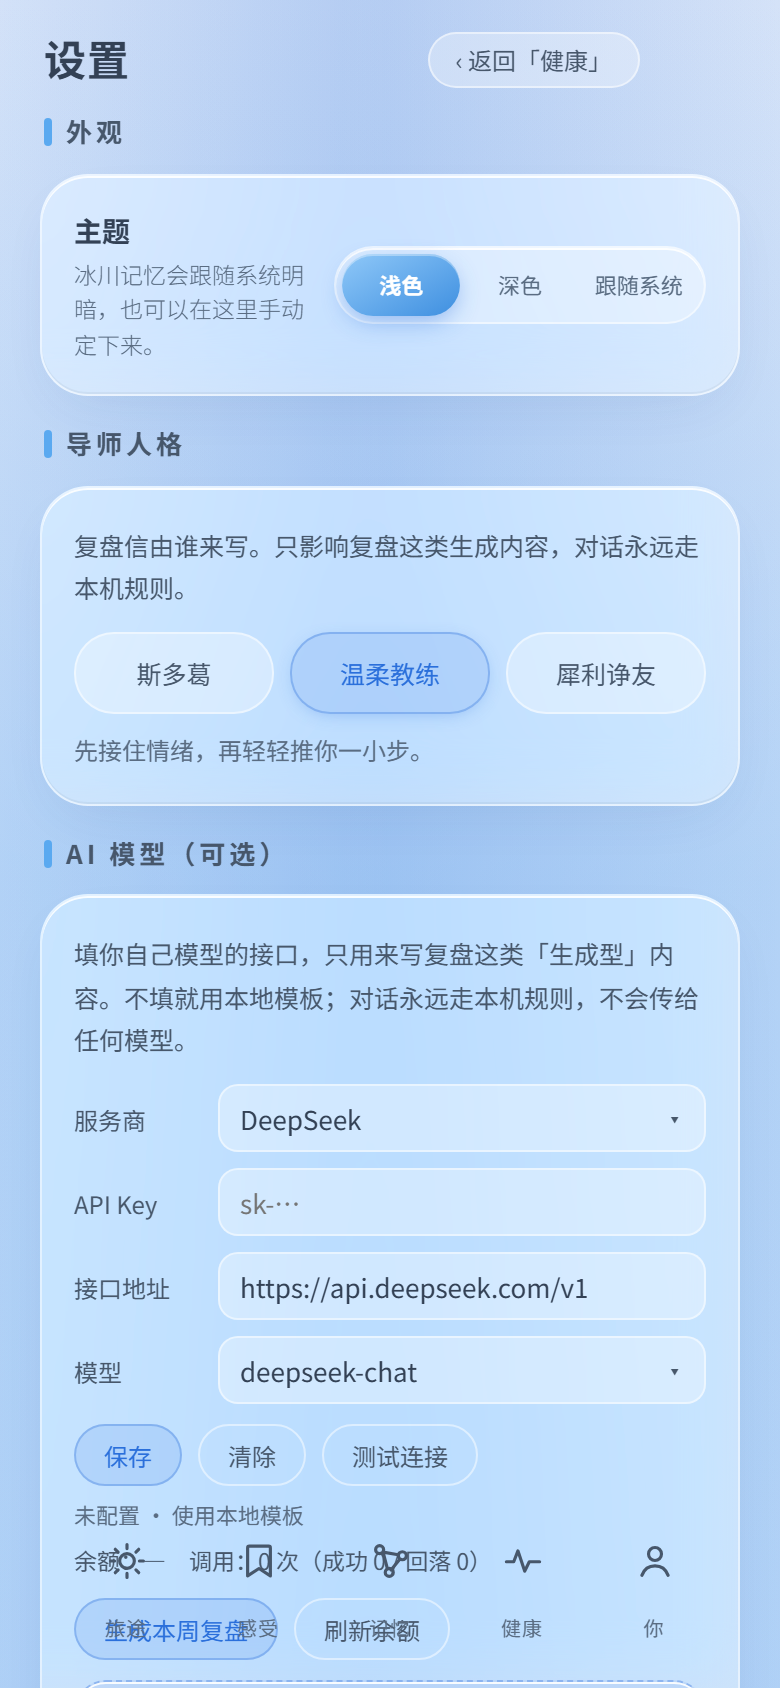
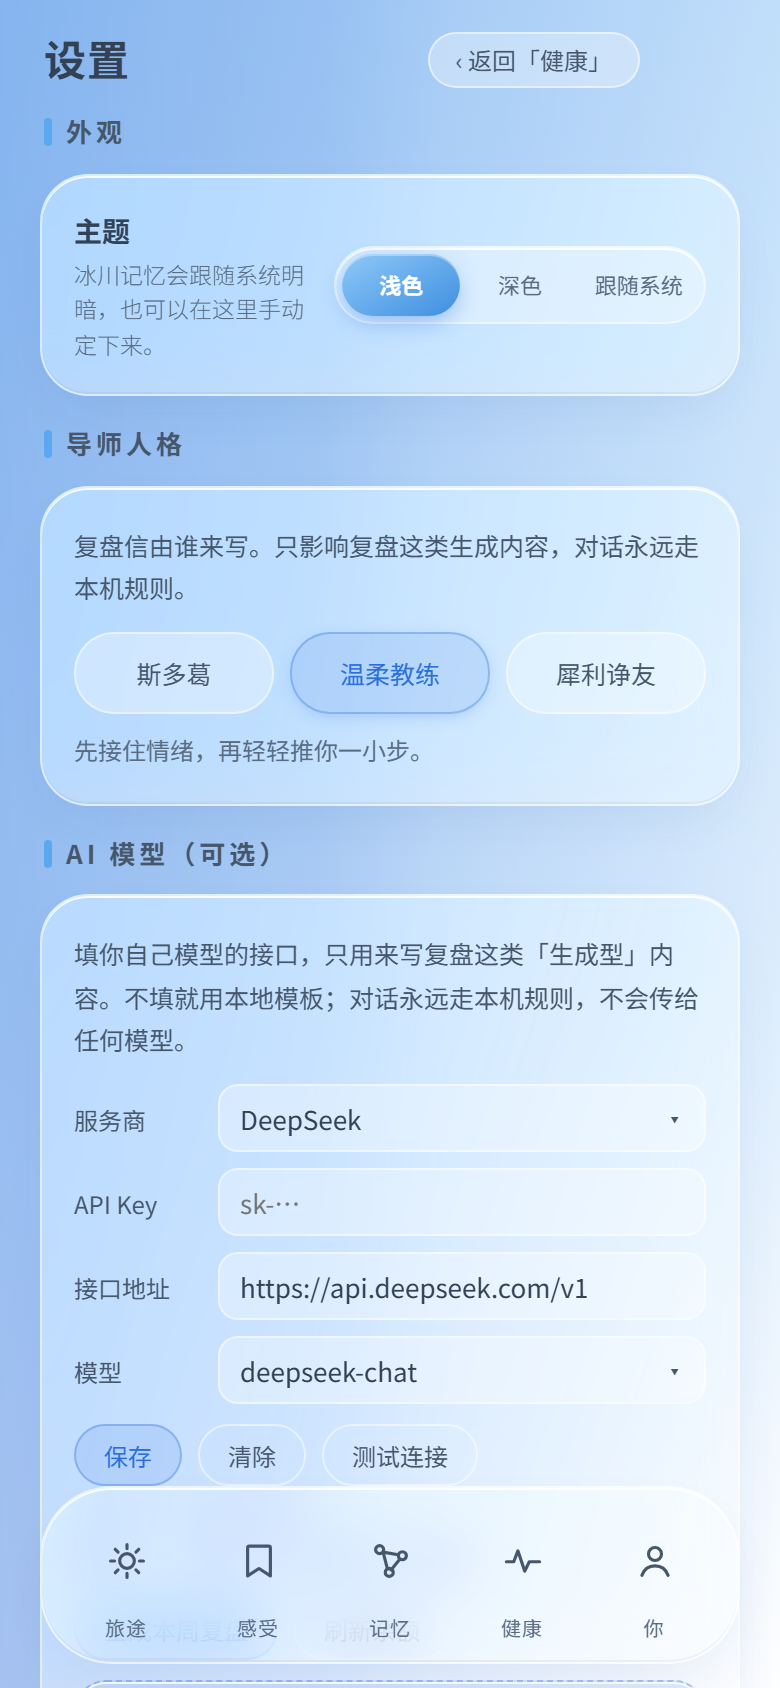
revert: 回退去底色改版
恢复天气卡 / 输入框 / 底部导航的原有底色与玻璃质感，截图同步回退。

diff --git a/prototype/index.html b/prototype/index.html
@@ -2083,77 +2083,6 @@
   }
   .annual-box textarea:focus{border-color:var(--blue-line);box-shadow:0 0 0 3px var(--blue-soft);}
   .annual-acts{display:flex;gap:8px;justify-content:flex-end;margin-top:6px;}
-
-  /* ==========================================================================
-     v95 · 去容器底：天气卡 / 输入框 / 底部导航只留内容与胶囊
-     用户诉求：「只显示这些胶囊按钮，它们层级的背景设置为透明的，
-     这样子看起来可以让用户看见更多的信息」
-     ========================================================================== */
-  .weather{
-    background:transparent !important;
-    border-color:transparent !important;
-    box-shadow:none !important;
-    -webkit-backdrop-filter:none !important;
-    backdrop-filter:none !important;
-    color:var(--text);
-    padding-left:0;
-    padding-right:0;
-  }
-  .weather .weather-city{color:var(--text-dim);}
-  .weather .weather-temp{color:var(--text);}
-  .weather .weather-desc{color:var(--text);}
-  .weather .weather-hum{color:var(--text-dim);}
-  .weather .weather-care{color:var(--text-dim);}
-  .weather .care-txt{color:var(--text-dim);}
-  .weather .wq-main{color:var(--text-dim) !important;}
-  .weather .wq-src{color:var(--text-faint) !important;}
-  .weather .weather-live{
-    background:var(--glass-bg-2);
-    border-color:var(--glass-border);
-    color:var(--text-dim);
-  }
-  .weather .weather-live::before{background:var(--text-dim);box-shadow:0 0 0 3px rgba(120,160,220,.16);}
-  .weather .fest-row .when,
-  .weather .fest-row .name,
-  .weather .fest-row .date{color:var(--text-dim) !important;}
-  .weather .fest-row .name{color:var(--text) !important;}
-  /* 天气卡内的分隔线（若用白线）改为主题线 */
-  .weather hr,
-  .weather .weather-divider{border-color:var(--line) !important;background:var(--line) !important;}
-
-  /* 天气卡还有两层伪元素/粒子层，透明后会把残留的渐变带出来 */
-  .weather::before{background:none !important;}
-  .weather{background-image:none !important;}
-  .weather-fx{opacity:0 !important;}
-  .weather-care{border-top-color:var(--line) !important;}
-  .weather .care-txt{color:var(--text) !important;}
-
-  /* 输入框：去玻璃底，只留工具与文字 */
-  .chat-input{
-    background:transparent !important;
-    border-color:transparent !important;
-    box-shadow:none !important;
-    -webkit-backdrop-filter:none !important;
-    backdrop-filter:none !important;
-    padding-left:0;
-    padding-right:0;
-  }
-  :root[data-theme="light"] .chat-input{
-    background:transparent !important;
-    border-color:transparent !important;
-    box-shadow:none !important;
-    -webkit-backdrop-filter:none !important;
-    backdrop-filter:none !important;
-  }
-
-  /* 底部导航：去玻璃底 */
-  .nav{
-    background:transparent !important;
-    border-color:transparent !important;
-    box-shadow:none !important;
-    -webkit-backdrop-filter:none !important;
-    backdrop-filter:none !important;
-  }
   .grat-last{margin-top:7px;font-size:11.5px;color:var(--text-dim);}
   .grat-last b{color:var(--sage);font-weight:600;}
   /* ==========================================================================
